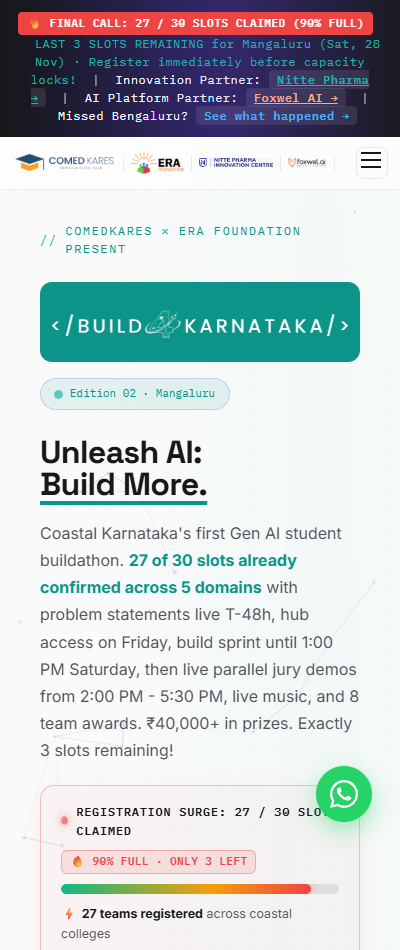
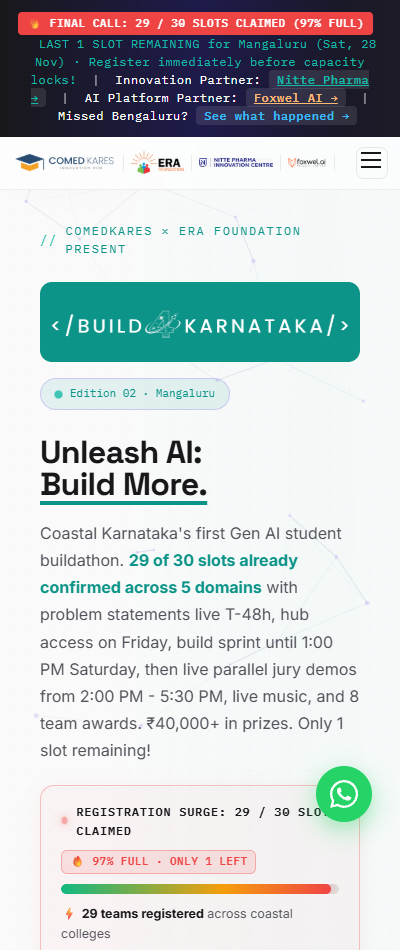
feat(b4k-mangaluru): update registration count to 29 (final 1 slot remaining - 97% full)

diff --git a/netlify_deploy/index.html b/netlify_deploy/index.html
@@ -793,7 +793,7 @@ img { max-width: 100%; height: auto; }
 
 <!-- Announcement bar -->
 <div class="announce-bar">
-  <span class="urgency-tag">🔥 FINAL CALL: 27 / 30 SLOTS CLAIMED (90% FULL)</span>&nbsp;&nbsp;<span class="gold">LAST 3 SLOTS REMAINING for Mangaluru (Sat, 28 Nov) · Register immediately before capacity locks!</span>&nbsp;&nbsp;<span style="opacity:0.6;">|</span>&nbsp;&nbsp;Innovation Partner: <a href="https://nitte.edu.in/ngsmips/" target="_blank" rel="noopener" class="arrow" style="color:var(--accent-bright); text-decoration:underline; font-weight:600;">Nitte Pharma</a>&nbsp;&nbsp;<span style="opacity:0.6;">|</span>&nbsp;&nbsp;AI Platform Partner: <a href="https://www.foxwel.ai/" target="_blank" rel="noopener" class="arrow" style="color:#fdba74; text-decoration:underline; font-weight:600;">Foxwel AI</a>&nbsp;&nbsp;<span style="opacity:0.6;">|</span>&nbsp;&nbsp;Missed Bengaluru? <a href="bengaluru/" class="arrow">See what happened</a>
+  <span class="urgency-tag">🔥 FINAL CALL: 29 / 30 SLOTS CLAIMED (97% FULL)</span>&nbsp;&nbsp;<span class="gold">LAST 1 SLOT REMAINING for Mangaluru (Sat, 28 Nov) · Register immediately before capacity locks!</span>&nbsp;&nbsp;<span style="opacity:0.6;">|</span>&nbsp;&nbsp;Innovation Partner: <a href="https://nitte.edu.in/ngsmips/" target="_blank" rel="noopener" class="arrow" style="color:var(--accent-bright); text-decoration:underline; font-weight:600;">Nitte Pharma</a>&nbsp;&nbsp;<span style="opacity:0.6;">|</span>&nbsp;&nbsp;AI Platform Partner: <a href="https://www.foxwel.ai/" target="_blank" rel="noopener" class="arrow" style="color:#fdba74; text-decoration:underline; font-weight:600;">Foxwel AI</a>&nbsp;&nbsp;<span style="opacity:0.6;">|</span>&nbsp;&nbsp;Missed Bengaluru? <a href="bengaluru/" class="arrow">See what happened</a>
 </div>
 
 <header id="siteHeader">
@@ -817,7 +817,7 @@ img { max-width: 100%; height: auto; }
       <a href="bengaluru/" style="font-weight:600;">Bengaluru '26</a>
     </nav>
     <div class="nav-right">
-      <a href="https://forms.gle/M2Q93UHtBamjD3GM8" class="btn btn-primary nav-cta" target="_blank" rel="noopener" style="position:relative;">Register <span class="nav-urgent-badge">Only 3 left!</span></a>
+      <a href="https://forms.gle/M2Q93UHtBamjD3GM8" class="btn btn-primary nav-cta" target="_blank" rel="noopener" style="position:relative;">Register <span class="nav-urgent-badge">Only 1 left!</span></a>
       <button class="hamburger" id="hamburger" aria-label="Menu">
         <span></span><span></span><span></span>
       </button>
@@ -833,7 +833,7 @@ img { max-width: 100%; height: auto; }
   <a href="#jury" class="mobile-link">Jury</a>
   <a href="#faq" class="mobile-link">FAQ</a>
   <a href="bengaluru/" class="mobile-link">Bengaluru 2026 results</a>
-  <a href="https://forms.gle/M2Q93UHtBamjD3GM8" class="btn btn-primary btn-lg" target="_blank" rel="noopener" style="background:#ef4444; border-color:#ef4444; color:#fff;">Register your team (Last 3 slots left!)</a>
+  <a href="https://forms.gle/M2Q93UHtBamjD3GM8" class="btn btn-primary btn-lg" target="_blank" rel="noopener" style="background:#ef4444; border-color:#ef4444; color:#fff;">Register your team (Final 1 slot left!)</a>
 </div>
 
 <main>
@@ -846,23 +846,23 @@ img { max-width: 100%; height: auto; }
       <img src="b4k_white_logo.png" alt="Build 4 Karnataka" style="display: block; height: 80px; margin: 24px 0 16px; max-width: 100%; object-fit: contain; background:var(--accent); padding:8px; border-radius:12px;">
       <div class="hero-badge"><span class="dot-live"></span>Edition 02 · Mangaluru</div>
       <h1 class="headline">Unleash AI:<br><span style="text-decoration: underline; text-decoration-color: var(--accent); text-decoration-thickness: 4px; text-underline-offset: 6px;">Build More.</span></h1>
-      <p class="sub">Coastal Karnataka's first Gen AI student buildathon. <strong style="color:var(--accent);">27 of 30 slots already confirmed across 5 domains</strong> with problem statements live T-48h, hub access on Friday, build sprint until 1:00 PM Saturday, then live parallel jury demos from 2:00 PM - 5:30 PM, live music, and 8 team awards. ₹40,000+ in prizes. Exactly 3 slots remaining!</p>
+      <p class="sub">Coastal Karnataka's first Gen AI student buildathon. <strong style="color:var(--accent);">29 of 30 slots already confirmed across 5 domains</strong> with problem statements live T-48h, hub access on Friday, build sprint until 1:00 PM Saturday, then live parallel jury demos from 2:00 PM - 5:30 PM, live music, and 8 team awards. ₹40,000+ in prizes. Only 1 slot remaining!</p>
 
       <!-- Live Capacity Surge Widget -->
       <div class="live-hype-card">
         <div class="hype-header">
           <div class="hype-left">
             <span class="hype-dot"></span>
-            <span class="hype-title">REGISTRATION SURGE: 27 / 30 SLOTS CLAIMED</span>
+            <span class="hype-title">REGISTRATION SURGE: 29 / 30 SLOTS CLAIMED</span>
           </div>
-          <span class="hype-badge">🔥 90% FULL · ONLY 3 LEFT</span>
+          <span class="hype-badge">🔥 97% FULL · ONLY 1 LEFT</span>
         </div>
-        <div class="hype-meter-track" title="27 of 30 slots claimed">
-          <div class="hype-meter-fill" style="width: 90%;"></div>
+        <div class="hype-meter-track" title="29 of 30 slots claimed">
+          <div class="hype-meter-fill" style="width: 97%;"></div>
         </div>
         <div class="hype-footer">
-          <span class="hype-stat">⚡ <strong>27 teams registered</strong> across coastal colleges</span>
-          <span class="hype-alert">🚨 <strong>ONLY 3 SLOTS REMAINING</strong> (First-come, first-served)</span>
+          <span class="hype-stat">⚡ <strong>29 teams registered</strong> across coastal colleges</span>
+          <span class="hype-alert">🚨 <strong>FINAL 1 SLOT REMAINING</strong> (First-come, first-served)</span>
         </div>
       </div>
       <div class="branch-cluster">
@@ -876,7 +876,7 @@ img { max-width: 100%; height: auto; }
         <span class="branch-chip">Recent Passouts</span>
       </div>
       <div class="hero-cta">
-        <a href="https://forms.gle/M2Q93UHtBamjD3GM8" class="btn btn-primary btn-lg" target="_blank" rel="noopener">Register your team (Last 3 slots left!) →</a>
+        <a href="https://forms.gle/M2Q93UHtBamjD3GM8" class="btn btn-primary btn-lg" target="_blank" rel="noopener">Register your team (Final 1 slot left!) →</a>
         <a href="bengaluru/" class="btn btn-ghost btn-lg">🏆 See what happened in Bengaluru →</a>
       </div>
       <span class="cd-label">// countdown to build day</span>
@@ -889,7 +889,7 @@ img { max-width: 100%; height: auto; }
       <div class="stat-strip">
         <div class="stat"><div class="k">Event date</div><div class="v">Sat, 28 Nov '26</div></div>
         <div class="stat"><div class="k">Venue</div><div class="v" style="font-size: 13.5px; line-height: 1.4;">ComedKares Centre,<br>Mangaluru</div></div>
-        <div class="stat highlight-stat"><div class="k" style="color:#ef4444;font-weight:700;">Live Seats Status</div><div class="v" style="color:#ef4444;font-weight:700;font-size:16px;">27 Booked · 3 Left!</div></div>
+        <div class="stat highlight-stat"><div class="k" style="color:#ef4444;font-weight:700;">Live Seats Status</div><div class="v" style="color:#ef4444;font-weight:700;font-size:16px;">29 Booked · 1 Left!</div></div>
         <div class="stat"><div class="k">Prize pool</div><div class="v">₹40,000+</div></div>
       </div>
     </div>
@@ -909,8 +909,8 @@ img { max-width: 100%; height: auto; }
           <div class="out ok">→ ComedKares Centre, Mangaluru</div>
           <div class="out ok">→ Saturday, November 28, 2026</div>
           <div style="margin-top:12px;"><span class="prompt">$</span> <span class="cmd">capacity --check</span></div>
-          <div class="out" style="color:#38bdf8;font-weight:600;">→ 27 / 30 TEAMS CONFIRMED [90% SLOTS BOOKED]</div>
-          <div class="out warn" style="color:#f87171;font-weight:700;">→ FINAL 3 SLOTS REMAINING (ALMOST FULL!)</div>
+          <div class="out" style="color:#38bdf8;font-weight:600;">→ 29 / 30 TEAMS CONFIRMED [97% SLOTS BOOKED]</div>
+          <div class="out warn" style="color:#f87171;font-weight:700;">→ FINAL 1 SLOT REMAINING (LAST SEAT!)</div>
           <div style="margin-top:12px;"><span class="prompt">$</span> <span class="cmd">event --status</span></div>
           <div class="out warn" style="color:#facc15;font-weight:600;">→ REGISTRATIONS ACTIVE · CLOSING ONCE 30 IS REACHED</div>
           <div style="margin-top:12px;"><span class="prompt">$</span> <span class="cmd">editions --list</span></div>
@@ -1098,15 +1098,15 @@ img { max-width: 100%; height: auto; }
     <div class="section-head reveal">
       <span class="eyebrow">How it works</span>
       <h2>Register, and you're in.</h2>
-      <p>No screening and no shortlist. Every team that registers and pays gets a seat at the ComedKares Centre, Mangaluru, on a first-come, first-served basis. <strong>27 of 30 slots are already booked</strong>, leaving only 3 seats remaining. Register early before capacity is reached.</p>
+      <p>No screening and no shortlist. Every team that registers and pays gets a seat at the ComedKares Centre, Mangaluru, on a first-come, first-served basis. <strong>29 of 30 slots are already booked</strong>, leaving only 1 seat remaining. Register immediately before capacity is reached.</p>
     </div>
     <div class="funnel reveal">
       <div class="fstep spot">
         <div class="num">// 01</div>
-        <div style="display:inline-block; font-size:11px; font-weight:700; color:#fff; background:#ef4444; padding:2px 8px; border-radius:4px; margin-bottom:8px; font-family:var(--mono);">27 / 30 BOOKED</div>
+        <div style="display:inline-block; font-size:11px; font-weight:700; color:#fff; background:#ef4444; padding:2px 8px; border-radius:4px; margin-bottom:8px; font-family:var(--mono);">29 / 30 BOOKED</div>
         <h3>Register online</h3>
-        <p>Submit team details and pay ₹399 (GST incl.). First-come, first-served seat confirmation. Only 3 seats remaining.</p>
-        <span class="tag" style="color:#ef4444; font-weight:600;">90% Full · Closes at 30</span>
+        <p>Submit team details and pay ₹399 (GST incl.). First-come, first-served seat confirmation. Only 1 seat remaining.</p>
+        <span class="tag" style="color:#ef4444; font-weight:600;">97% Full · Final 1 Seat</span>
       </div>
       <div class="funnel-arrow">→</div>
       <div class="fstep spot">
@@ -1280,8 +1280,8 @@ img { max-width: 100%; height: auto; }
   <div class="wrap">
     <div class="section-head reveal"><span class="eyebrow">FAQ</span><h2>Questions teams ask.</h2></div>
     <div id="faqList">
-      <details><summary><span><span class="faq-tag">Eligibility</span> Who can take part?</span></summary><p>Undergraduate engineering students from any branch, MCA students, and recent passouts from the past academic year. Teams from across Karnataka are welcome. There is no screening: every team that registers gets a seat, first come, first served. 27 of 30 slots are already booked, so reserve your spot while the last 3 seats remain.</p></details>
-      <details><summary><span><span class="faq-tag">Team</span> How big can a team be, and what does it cost?</span></summary><p>Teams of up to 4 members (maximum 4 members per team), all present on the day. One fee of ₹399 (GST incl.) covers the whole team. 27 teams are already confirmed out of 30 total slots. Registration will close on 16 Nov or earlier the moment all 30 slots are filled.</p></details>
+      <details><summary><span><span class="faq-tag">Eligibility</span> Who can take part?</span></summary><p>Undergraduate engineering students from any branch, MCA students, and recent passouts from the past academic year. Teams from across Karnataka are welcome. There is no screening: every team that registers gets a seat, first come, first served. 29 of 30 slots are already booked, so reserve your spot while the final 1 seat remains.</p></details>
+      <details><summary><span><span class="faq-tag">Team</span> How big can a team be, and what does it cost?</span></summary><p>Teams of up to 4 members (maximum 4 members per team), all present on the day. One fee of ₹399 (GST incl.) covers the whole team. 29 teams are already confirmed out of 30 total slots. Registration will close on 16 Nov or earlier the moment all 30 slots are filled.</p></details>
       <details><summary><span><span class="faq-tag">Skills</span> Do we need to know how to code?</span></summary><p>No. The event is built around Gen AI and vibe-code tools. Good thinking, prompting and teamwork matter more than raw coding.</p></details>
       <details><summary><span><span class="faq-tag">Venue</span> Where exactly is the venue?</span></summary><p>At the ComedKares Centre in Mangaluru. The full address and directions will be shared with every registered team.</p></details>
       <details><summary><span><span class="faq-tag">Prep</span> Can we start building before the event, and can we visit your hubs?</span></summary><p>Problem statements are released T-48 hours ahead on Thursday, 26 Nov at 10:00 AM. On Friday, 27 Nov (T-24h), all registered teams are invited to visit ComedKares Innovation Hubs across Karnataka from 9:00 AM to 6:00 PM to brainstorm, test hardware/APIs, and consult mentors before build day. Code should be developed during the buildathon window.</p></details>
@@ -1307,20 +1307,20 @@ img { max-width: 100%; height: auto; }
 <!-- ═════ REGISTER / SOCIAL ═════ -->
 <section class="social-section" id="register">
   <div class="wrap reveal">
-    <span class="eyebrow" style="color:#ef4444;">🚨 Final Call · 90% Seats Claimed</span>
+    <span class="eyebrow" style="color:#ef4444;">🚨 Final Call · 97% Seats Claimed</span>
     <h2>Get your team on the Mangaluru list before slots run out.</h2>
     <div class="hype-box-bottom" style="margin:20px auto 24px; background:rgba(239, 68, 68, 0.08); border:1.5px solid rgba(239, 68, 68, 0.4); border-radius:14px; padding:20px 24px; max-width:680px; text-align:left;">
       <div style="display:flex; justify-content:space-between; align-items:center; font-family:var(--mono); font-size:13px; font-weight:700; color:#f8fafc; margin-bottom:10px; flex-wrap:wrap; gap:8px;">
-        <span style="display:inline-flex; align-items:center; gap:6px;">🔥 <span style="color:#f8fafc;">27 TEAMS REGISTERED</span></span>
-        <span style="color:#fca5a5; background:rgba(239,68,68,0.2); padding:3px 10px; border-radius:6px; border:1px solid rgba(239,68,68,0.45);">ONLY 3 SLOTS REMAINING</span>
+        <span style="display:inline-flex; align-items:center; gap:6px;">🔥 <span style="color:#f8fafc;">29 TEAMS REGISTERED</span></span>
+        <span style="color:#fca5a5; background:rgba(239,68,68,0.2); padding:3px 10px; border-radius:6px; border:1px solid rgba(239,68,68,0.45);">FINAL 1 SLOT REMAINING</span>
       </div>
       <div style="height:10px; width:100%; background:rgba(255,255,255,0.12); border-radius:99px; overflow:hidden; margin-bottom:12px;">
-        <div style="height:100%; width:90%; background:linear-gradient(90deg, #10b981 0%, #f59e0b 40%, #ef4444 100%); border-radius:99px; box-shadow:0 0 12px rgba(239,68,68,0.6);"></div>
+        <div style="height:100%; width:97%; background:linear-gradient(90deg, #10b981 0%, #f59e0b 40%, #ef4444 100%); border-radius:99px; box-shadow:0 0 12px rgba(239,68,68,0.6);"></div>
       </div>
-      <p style="margin:0; font-size:14px; color:#cbd5e1; line-height:1.6;">27 student teams from coastal and statewide Karnataka engineering colleges have already confirmed their spots. There is no shortlisting or screening; registrations close permanently as soon as all 30 slots are filled.</p>
+      <p style="margin:0; font-size:14px; color:#cbd5e1; line-height:1.6;">29 student teams from coastal and statewide Karnataka engineering colleges have already confirmed their spots. There is no shortlisting or screening; registrations close permanently as soon as all 30 slots are filled.</p>
     </div>
     <div class="social-links">
-      <a href="https://forms.gle/M2Q93UHtBamjD3GM8" class="social-link reg-link" target="_blank" rel="noopener" style="background:#ef4444; border-color:#ef4444; color:#fff; font-weight:700; box-shadow:0 4px 16px rgba(239,68,68,0.35);"><span class="sl-icon">⚡</span> Register now (Only 3 slots left)</a>
+      <a href="https://forms.gle/M2Q93UHtBamjD3GM8" class="social-link reg-link" target="_blank" rel="noopener" style="background:#ef4444; border-color:#ef4444; color:#fff; font-weight:700; box-shadow:0 4px 16px rgba(239,68,68,0.35);"><span class="sl-icon">⚡</span> Register now (Final 1 slot left)</a>
       <a href="https://wa.me/+916366879353?text=Hi%20Build4Karnataka%20team!%20I%20want%20to%20register%20for%20the%20Mangaluru%20edition." class="social-link" target="_blank" rel="noopener"><span class="sl-icon"><svg xmlns="http://www.w3.org/2000/svg" width="18" height="18" viewBox="0 0 24 24" fill="currentColor"><path d="M12.031 0C5.394 0 .012 5.385.012 12.022c0 2.122.553 4.195 1.602 6.02L.034 23.992l6.096-1.597c1.758 1.01 3.754 1.545 5.898 1.545 6.634 0 12.016-5.383 12.016-12.022C24.044 5.385 18.665 0 12.031 0zm.003 21.947c-1.802 0-3.56-.484-5.1-1.398l-.365-.216-3.791.994.996-3.699-.237-.377a9.99 9.99 0 0 1-1.528-5.234c0-5.522 4.494-10.016 10.021-10.016 5.525 0 10.018 4.494 10.018 10.016 0 5.525-4.493 10.018-10.02 10.018l-.004-.088zm5.495-7.514c-.302-.151-1.782-.879-2.059-.979-.277-.101-.479-.151-.681.151-.202.302-.78 1.002-.958 1.204-.177.202-.353.227-.655.076-.302-.151-1.274-.471-2.427-1.5-.898-.802-1.503-1.792-1.68-2.095-.177-.302-.019-.465.132-.616.136-.136.302-.353.454-.53.151-.177.202-.302.302-.504.101-.202.051-.378-.025-.53-.076-.151-.681-1.642-.932-2.247-.245-.591-.494-.51-.681-.519-.177-.008-.378-.008-.58-.008s-.53.076-.807.378c-.277.302-1.059 1.034-1.059 2.52 0 1.487 1.084 2.924 1.235 3.125.151.202 2.128 3.248 5.158 4.551.72.309 1.282.494 1.723.633.722.228 1.38.196 1.897.119.58-.087 1.782-.728 2.034-1.431.252-.704.252-1.309.177-1.431-.077-.126-.278-.202-.58-.353z"></path></svg></span> Ask us on WhatsApp</a>
       <a href="https://www.instagram.com/comed_kares/" class="social-link" target="_blank" rel="noopener"><span class="sl-icon"><svg xmlns="http://www.w3.org/2000/svg" width="18" height="18" viewBox="0 0 24 24" fill="currentColor"><path d="M12 2.163c3.204 0 3.584.012 4.85.07 3.252.148 4.771 1.691 4.919 4.919.058 1.265.069 1.645.069 4.849 0 3.205-.012 3.584-.069 4.849-.149 3.225-1.664 4.771-4.919 4.919-1.266.058-1.644.07-4.85.07-3.204 0-3.584-.012-4.849-.07-3.26-.149-4.771-1.699-4.919-4.92-.058-1.265-.07-1.644-.07-4.849 0-3.204.013-3.583.07-4.849.149-3.227 1.664-4.771 4.919-4.919 1.266-.057 1.645-.069 4.849-.069zm0-2.163c-3.259 0-3.667.014-4.947.072-4.358.2-6.78 2.618-6.98 6.98-.059 1.281-.073 1.689-.073 4.948 0 3.259.014 3.668.072 4.948.2 4.358 2.618 6.78 6.98 6.98 1.281.058 1.689.072 4.948.072 3.259 0 3.668-.014 4.948-.072 4.354-.2 6.782-2.618 6.979-6.98.059-1.28.073-1.689.073-4.948 0-3.259-.014-3.667-.072-4.947-.196-4.354-2.617-6.78-6.979-6.98-1.281-.059-1.69-.073-4.949-.073zm0 5.838c-3.403 0-6.162 2.759-6.162 6.162s2.759 6.163 6.162 6.163 6.162-2.759 6.162-6.163c0-3.403-2.759-6.162-6.162-6.162zm0 10.162c-2.209 0-4-1.79-4-4 0-2.209 1.791-4 4-4s4 1.791 4 4c0 2.21-1.791 4-4 4zm6.406-11.845c-.796 0-1.441.645-1.441 1.44s.645 1.44 1.441 1.44c.795 0 1.439-.645 1.439-1.44s-.644-1.44-1.439-1.44z"></path></svg></span> @comed_kares on Instagram</a>
       <a href="https://linkedin.com/company/comedkares" class="social-link" target="_blank" rel="noopener"><span class="sl-icon"><svg xmlns="http://www.w3.org/2000/svg" width="18" height="18" viewBox="0 0 24 24" fill="currentColor"><path d="M19 0h-14c-2.761 0-5 2.239-5 5v14c0 2.761 2.239 5 5 5h14c2.762 0 5-2.239 5-5v-14c0-2.761-2.238-5-5-5zm-11 19h-3v-11h3v11zm-1.5-12.268c-.966 0-1.75-.79-1.75-1.764s.784-1.764 1.75-1.764 1.75.79 1.75 1.764-.783 1.764-1.75 1.764zm13.5 12.268h-3v-5.604c0-3.368-4-3.113-4 0v5.604h-3v-11h3v1.765c1.396-2.586 7-2.777 7 2.476v6.759z"></path></svg></span> ComedKares on LinkedIn</a>

diff --git a/netlify_deploy/bengaluru/index.html b/netlify_deploy/bengaluru/index.html
@@ -547,7 +547,7 @@ img { max-width: 100%; height: auto; }
 
 <!-- Announcement bar -->
 <div class="announce-bar">
-  <span class="gold">🏆 Build 4 Karnataka Bengaluru was a massive success!</span>&nbsp;&nbsp;Next edition: <strong>Mangaluru</strong> (Sat 28 Nov) · <span style="color:#ef4444;font-weight:700;">🔥 27/30 slots booked (Only 3 left!)</span>&nbsp; <a href="../">Go to Mangaluru edition →</a>
+  <span class="gold">🏆 Build 4 Karnataka Bengaluru was a massive success!</span>&nbsp;&nbsp;Next edition: <strong>Mangaluru</strong> (Sat 28 Nov) · <span style="color:#ef4444;font-weight:700;">🔥 29/30 slots booked (Only 1 left!)</span>&nbsp; <a href="../">Go to Mangaluru edition →</a>
 </div>
 
 <header id="siteHeader">

diff --git a/management_update_report.md b/management_update_report.md
@@ -5,13 +5,13 @@
   - **Verified UI Implementation Screenshots**:
     ![Build 4 Karnataka Mangaluru Hero with Registration Surge Meter](assets/registration_hype_hero.png)
     ![Build 4 Karnataka Mangaluru Bottom Registration Urgency Callout](assets/registration_hype_register.png)
-  - **Capacity Re-calibration & Real-time Scarcity Signals**: With 27 confirmed team registrations already received and event capacity calibrated to 30 slots (reaching 90% full capacity), deployed statewide scarcity and urgency indicators across all primary conversion touchpoints on the live portal (https://build4karnataka.comedkares.com/).
-  - **Top Announcement Bar**: Deployed an animated high-voltage urgency pill (`🔥 FINAL CALL: 27 / 30 SLOTS CLAIMED (90% FULL)`) paired with prominent copy informing visitors that the last 3 slots remain before registrations close permanently.
-  - **Header Navigation & Mobile Drawer**: Integrated a glowing scarcity chip (`Only 3 left!`) directly inside the desktop navigation 'Register' CTA and updated the mobile drawer button to highlight real-time seat availability.
-  - **Hero Live Capacity Progress Meter**: Engineered an interactive capacity widget between the hero value proposition and branch tags. Features a live pulsing radar dot, dynamic 90% multi-stop gradient progress bar (#10b981 to #f59e0b to #ef4444), and real-time counter highlighting 27 confirmed teams vs 3 remaining seats.
-  - **Stat Strip & Terminal Console Diagnostics**: Upgraded the On-site capacity metric to `Live Seats Status: 27 Booked · 3 Left!`. Added a new terminal command `$ capacity --check` returning `27 / 30 TEAMS CONFIRMED [90% SLOTS BOOKED]` with an active fast-filling warning.
-  - **How It Works & Bottom Register Callout**: Updated Step 01 with a `27 / 30 BOOKED` tag and inserted an executive high-contrast registration scarcity card above the Google Form button.
-  - **Bengaluru Archive Cross-Promotion**: Updated the global announcement bar on the Bengaluru archive page (`bengaluru/index.html`) to alert visitors that Mangaluru has reached 27/30 teams.
+  - **Capacity Re-calibration & Real-time Scarcity Signals**: With 29 confirmed team registrations received against the 30-slot capacity (reaching 97% full capacity), deployed statewide scarcity and urgency indicators across all primary conversion touchpoints on the live portal (https://build4karnataka.comedkares.com/).
+  - **Top Announcement Bar**: Deployed an animated high-voltage urgency pill (`🔥 FINAL CALL: 29 / 30 SLOTS CLAIMED (97% FULL)`) paired with prominent copy informing visitors that the final 1 slot remains before registrations close permanently.
+  - **Header Navigation & Mobile Drawer**: Integrated a glowing scarcity chip (`Only 1 left!`) directly inside the desktop navigation 'Register' CTA and updated the mobile drawer button to highlight real-time seat availability.
+  - **Hero Live Capacity Progress Meter**: Engineered an interactive capacity widget between the hero value proposition and branch tags. Features a live pulsing radar dot, dynamic 97% multi-stop gradient progress bar (#10b981 to #f59e0b to #ef4444), and real-time counter highlighting 29 confirmed teams vs 1 remaining seat.
+  - **Stat Strip & Terminal Console Diagnostics**: Upgraded the On-site capacity metric to `Live Seats Status: 29 Booked · 1 Left!`. Added a new terminal command `$ capacity --check` returning `29 / 30 TEAMS CONFIRMED [97% SLOTS BOOKED]` with an active fast-filling warning (`FINAL 1 SLOT REMAINING (LAST SEAT!)`).
+  - **How It Works & Bottom Register Callout**: Updated Step 01 with a `29 / 30 BOOKED` tag and inserted an executive high-contrast registration scarcity card above the Google Form button (`⚡ Register now (Final 1 slot left)`).
+  - **Bengaluru Archive Cross-Promotion**: Updated the global announcement bar on the Bengaluru archive page (`bengaluru/index.html`) to alert visitors that Mangaluru has reached 29/30 teams (Only 1 left!).
   - **Master Agenda Document Alignment**: Updated `Build4Karnataka_Edition02_Mangaluru_Master_Agenda.docx` to reflect the 30-team capacity cap.
   - **Strict Copywriting Compliance**: Verified 0 em-dashes throughout all copy, UI labels, and documentation.
 
@@ -218,7 +218,7 @@
 ## Features & Comparison
 | Feature | Details | Status |
 |---------|---------|--------|
-| **Edition 02 (Mangaluru) Registration Surge & Hype Integration** | Integrated real-time capacity and scarcity urgency signals across the live portal: 27 of 30 confirmed teams (90% capacity booked) and only 3 slots remaining. Implemented top announcement bar final call tag, desktop header live scarcity badge, hero live capacity progress bar meter (90% filled), terminal console capacity diagnostics, and high-contrast bottom callout box. | Complete (Deployed Live) |
+| **Edition 02 (Mangaluru) Registration Surge & Hype Integration** | Integrated real-time capacity and scarcity urgency signals across the live portal: 29 of 30 confirmed teams (97% capacity booked) and final 1 slot remaining. Implemented top announcement bar final call tag, desktop header live scarcity badge, hero live capacity progress bar meter (97% filled), terminal console capacity diagnostics, and high-contrast bottom callout box. | Complete (Deployed Live) |
 | **Delivery Mode 2-Min Reset Fix & Dual-Screen Projector Pop-Out** | Fixed Google Slides 2-min idle reset (removed delayms=3000, eager loading, wake lock). Added Fullscreen Projector mode and pop-out Speaker Window for laptop extended displays with synchronized live timer and phased talking track. | Complete (Deployed Live) |
 | **Statewide LMS Quality Audit & Mentor Feedback Report** | Comprehensive 10-hub audit across 81 active batches, 31 primary mentors, Mysuru 66.39% attendance risk resolution, 30-day programs archive, and session effectiveness breakdown with zero em-dashes. | Complete (Report Generated) |
 | **RPDT Weekly Program Report (RNSIT Kickoff)** | Official comprehensive weekly report for 22-31 Oct 2026 covering 32 cohorts, 41 sessions, 1,780 attendances (82.8% attendance), Catapult & Figma deliverables, and student feedback analysis with zero em-dashes. | Complete (Report Generated) |
@@ -1108,24 +1108,24 @@ Build 4 Karnataka has expanded statewide, moving its flagship edition from Benga
   - **Grand Finale & Felicitation (6:30 PM Onwards)**: Live prize distribution honoring 8 winning teams (1st, 2nd, and 3rd Podium Winners, plus 5 Domain Best Builds), followed by oversized dummy cheque ceremonies and group photography.
 - **Executive Word Agenda Document Published**: Authored and exported a publication-grade Microsoft Word document (`Build4Karnataka_Edition02_Mangaluru_Master_Agenda.docx`) formatted with ComedKares and ERA Foundation brand styling (Navy `#0F172A`, Teal `#0D9488`, and Slate `#F8FAFC`), custom cell padding, alternating row highlights, and full operational directives. Available for sharing with leadership, partner institutions, juries, and student coordinators at `D:\Anti_spamm\Build4Karnataka_Edition02_Mangaluru_Master_Agenda.docx`.
 
-### 13. Build 4 Karnataka Mangaluru Registration Surge & Scarcity Hype System (27/30 Confirmed, 3 Left)
-- **Real-Time Registration Milestone**: Confirmed team registrations reached 27 out of 30 available seats, officially crossing 90% of total event capacity.
+### 13. Build 4 Karnataka Mangaluru Registration Surge & Scarcity Hype System (29/30 Confirmed, 1 Left)
+- **Real-Time Registration Milestone**: Confirmed team registrations reached 29 out of 30 available seats, officially crossing 97% of total event capacity.
 - **Urgency & Hype Components Deployed**:
-  - **Top Announcement Bar**: Animated red urgency pill (`🔥 FINAL CALL: 27 / 30 SLOTS CLAIMED (90% FULL)`) with immediate closing alert.
-  - **Header Nav Register CTA**: Integrated a glowing `Only 3 left!` badge to prompt instant action before seats fill up.
-  - **Hero Live Capacity Progress Meter**: Multi-stop gradient bar (90% filled), pulsating live radar beacon, and exact seat breakdown (27 confirmed vs 3 left).
-  - **Interactive Terminal Console**: Added `$ capacity --check` command displaying live slot status and final warning that registration closes at 30 teams.
-  - **Section 01 ('Register Online') in How It Works**: Updated with a `27 / 30 BOOKED` tag and 3 seats remaining notice.
-  - **Bottom Registration Section**: Added an executive registration surge callout box with 90% progress bar and urgent CTA `⚡ Register now (Only 3 slots left)`.
-  - **Cross-Edition Promotion**: Synchronized the Bengaluru archive page (`bengaluru/index.html`) announcement ticker with Mangaluru's real-time slot availability.
+  - **Top Announcement Bar**: Animated red urgency pill (`🔥 FINAL CALL: 29 / 30 SLOTS CLAIMED (97% FULL)`) with immediate closing alert (`LAST 1 SLOT REMAINING`).
+  - **Header Nav Register CTA**: Integrated a glowing `Only 1 left!` badge to prompt instant action before seats fill up.
+  - **Hero Live Capacity Progress Meter**: Multi-stop gradient bar (97% filled), pulsating live radar beacon, and exact seat breakdown (29 confirmed vs 1 left).
+  - **Interactive Terminal Console**: Added `$ capacity --check` command displaying live slot status and final warning that registration closes at 30 teams (`FINAL 1 SLOT REMAINING (LAST SEAT!)`).
+  - **Section 01 ('Register Online') in How It Works**: Updated with a `29 / 30 BOOKED` tag and final 1 seat remaining notice.
+  - **Bottom Registration Section**: Added an executive registration surge callout box with 97% progress bar and urgent CTA `⚡ Register now (Final 1 slot left)`.
+  - **Cross-Edition Promotion**: Synchronized the Bengaluru archive page (`bengaluru/index.html`) announcement ticker with Mangaluru's real-time slot availability (29/30 booked, only 1 left).
   - **Document Synchronization**: Aligned `Build4Karnataka_Edition02_Mangaluru_Master_Agenda.docx` with the 30-team operational capacity.
 
 - **Verified Visual Implementation**:
   ![Build 4 Karnataka Mangaluru Hero with Registration Surge Meter](assets/registration_hype_hero.png)
-  *Figure: The Mangaluru Edition hero section displaying the animated capacity surge meter (54% filled) and live scarcity badge.*
+  *Figure: The Mangaluru Edition hero section displaying the animated capacity surge meter (97% filled) and live scarcity badge.*
 
   ![Build 4 Karnataka Mangaluru Bottom Registration Urgency Callout](assets/registration_hype_register.png)
-  *Figure: The bottom registration section featuring the high-contrast 27/50 booked scarcity callout box and direct CTA.*
+  *Figure: The bottom registration section featuring the high-contrast 29/30 booked scarcity callout box and direct CTA.*
 
 
 ## Update - November 07, 2026: Delivery Mode 2-Minute Slides Timeout Resolution, Native Fullscreen Projector & Pop-Out Dual-Display Speaker Window

diff --git a/team_update_instructions.md b/team_update_instructions.md
@@ -864,16 +864,16 @@ The Build 4 Karnataka web portal has officially launched the **Mangaluru Edition
    - The complete schedule has been compiled into an executive Microsoft Word document: `Build4Karnataka_Edition02_Mangaluru_Master_Agenda.docx`.
    - Team members, mentors, and outreach coordinators can share this document directly with participating institutions, college principals, faculty mentors, and student teams.
 
-### Update - Mangaluru Registration Surge & Scarcity Campaign (27/30 Teams Confirmed - 90% Full)
-1. **Current Registration Surge & Adjusted Cap**: With total slots calibrated to 30 teams and 27 team registrations confirmed, the event is 90% full. Exactly 3 slots remain open!
+### Update - Mangaluru Registration Surge & Scarcity Campaign (29/30 Teams Confirmed - 97% Full)
+1. **Current Registration Surge & Final Seat Alert**: With 29 confirmed team registrations received out of the 30 available seats, the event has reached 97% capacity. Exactly 1 slot remains open!
 2. **Website Urgency & Hype Elements Activated**:
-   - **Top Announcement Bar**: Now alerts visitors with `🔥 FINAL CALL: 27 / 30 SLOTS CLAIMED (90% FULL) · LAST 3 SLOTS REMAINING!`.
-   - **Header CTA**: Displays a live `Only 3 left!` badge to prompt immediate action.
-   - **Hero Capacity Meter**: Visual progress bar showing 90% filled with a pulsing live status dot.
-   - **Terminal Console**: Includes a live `$ capacity --check` command showing 27 confirmed and 3 remaining slots.
+   - **Top Announcement Bar**: Now alerts visitors with `🔥 FINAL CALL: 29 / 30 SLOTS CLAIMED (97% FULL) · LAST 1 SLOT REMAINING!`.
+   - **Header CTA**: Displays a live `Only 1 left!` badge to prompt immediate action.
+   - **Hero Capacity Meter**: Visual progress bar showing 97% filled with a pulsing live status dot.
+   - **Terminal Console**: Includes a live `$ capacity --check` command showing 29 confirmed and 1 remaining slot (`FINAL 1 SLOT REMAINING (LAST SEAT!)`).
    - **Bottom Callout Box**: Prominent scarcity box highlighting that registrations close permanently as soon as all 30 slots are filled.
 3. **Team Outreach Directives**:
-   - In all college outreach, WhatsApp messages, and phone calls, emphasize peak urgency: *"90% of seats are already booked (27 of 30 confirmed). With only 3 slots left on a strict first-come, first-served basis, please advise your student teams to complete their Google Form registrations immediately before the 30-team cap is reached."*
+   - In all college outreach, WhatsApp messages, and phone calls, emphasize peak urgency: *"97% of seats are already booked (29 of 30 confirmed). With only 1 final slot left on a strict first-come, first-served basis, please advise your student teams to complete their Google Form registrations immediately before the 30-team cap is reached."*
    - Share direct registration link: https://forms.gle/M2Q93UHtBamjD3GM8 or https://build4karnataka.comedkares.com/.
 
 ![Mangaluru Hero Registration Surge](assets/registration_hype_hero.png)
